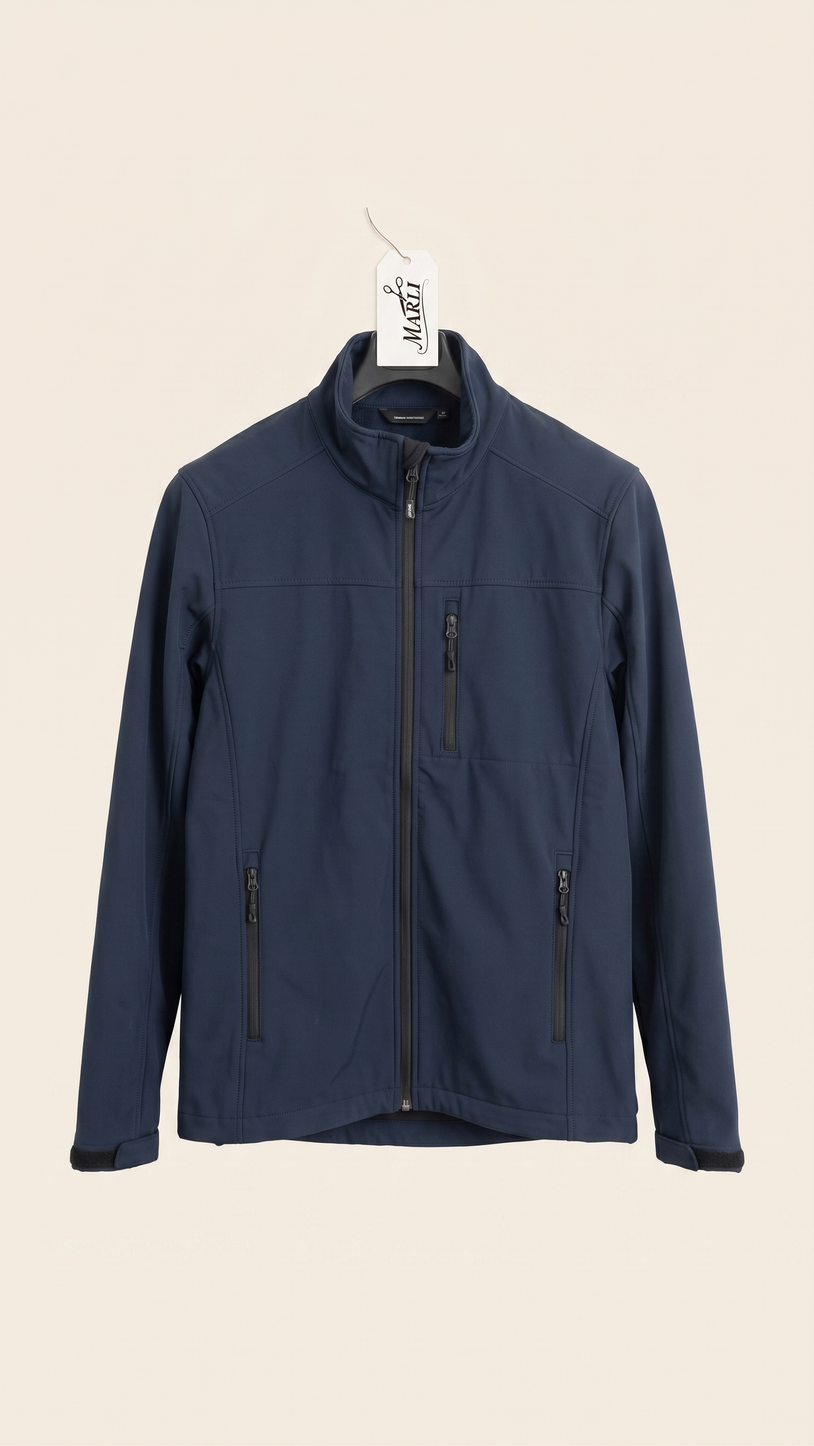
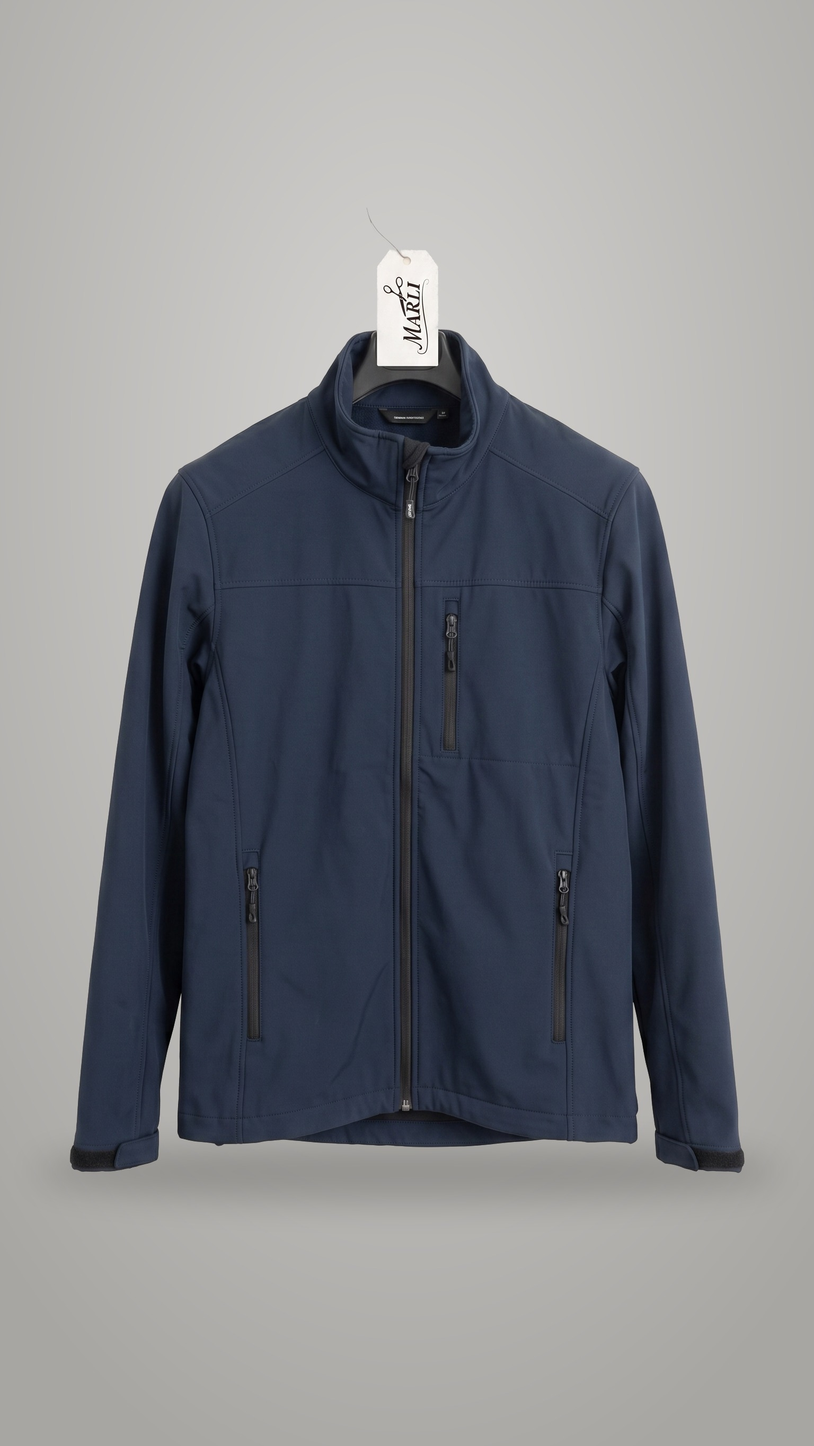
Unify product photo backgrounds and randomize testimonials
Regrades all Arbeiten and Second-Hand product photos onto the same
light-grey studio backdrop as the reference skirt photo (AI background
removal + matching gradient + soft contact shadow), replacing each
photo's inconsistent original background.

Expands the testimonials pool to 10 entries and shows 3 random ones
per page load instead of a fixed set, with a no-JS fallback that shows
all 10.

Claude-Session: https://claude.ai/code/session_01BZTQN8uqo2pvADasvdC23w

diff --git a/site/src/data/stimmen.ts b/site/src/data/stimmen.ts
@@ -1,9 +1,12 @@
 /**
- * Kundenstimmen — Sektion "Kundenstimmen".
+ * Kundenstimmen — Pool von zehn Zitaten, aus dem die Sektion pro Seitenaufruf
+ * zufällig drei auswählt (siehe Testimonials.astro).
  * Erste Stimme aus der Figma-Design-System-Dokumentation übernommen,
  * die übrigen im gleichen Ton ergänzt (echte Zitate stehen noch aus).
  * Fotos sind Platzhalter (freie Placeholder-Portraits, keine echten
- * Kundinnen) — bei echten Kundenstimmen durch reale Fotos ersetzen.
+ * Kundinnen) — nur drei Fotos vorhanden, werden über die zehn Einträge
+ * hinweg wiederverwendet. Bei echten Kundenstimmen durch reale Fotos
+ * ersetzen.
  */
 import type { ImageMetadata } from 'astro';
 import andreaFoto from '../bilder/testimonial-andrea.jpg';
@@ -38,5 +41,54 @@ export const kundenstimmen: Kundenstimme[] = [
     name: 'Julia M.',
     ort: 'Kundin aus Kolbermoor',
     foto: juliaFoto,
+  },
+  {
+    zitat:
+      'Der Reißverschluss meiner Lieblingsjacke war kaputt – jetzt hält er wieder, und man merkt gar nicht, dass er ausgetauscht wurde.',
+    name: 'Petra S.',
+    ort: 'Kundin aus Bad Aibling',
+    foto: andreaFoto,
+  },
+  {
+    zitat:
+      'Für mein Vorstellungsgespräch brauchte ich schnell einen passenden Blazer – im Second-Hand-Regal fand ich genau das Richtige, direkt angepasst.',
+    name: 'Nina F.',
+    ort: 'Kundin aus Raubling',
+    foto: sabineFoto,
+  },
+  {
+    zitat:
+      'Mein Kleid für die Hochzeit meiner Schwester wurde perfekt gekürzt, termingerecht und mit viel Liebe zum Detail.',
+    name: 'Melanie T.',
+    ort: 'Kundin aus Stephanskirchen',
+    foto: juliaFoto,
+  },
+  {
+    zitat:
+      'Im Second-Hand-Bereich habe ich einen Ledermantel in Top-Zustand entdeckt – ein echter Glücksfund.',
+    name: 'Claudia W.',
+    ort: 'Kundin aus Bruckmühl',
+    foto: andreaFoto,
+  },
+  {
+    zitat:
+      'Der Anzug meines Mannes musste kurzfristig enger gemacht werden – kein Problem, alles hat perfekt gepasst.',
+    name: 'Birgit H.',
+    ort: 'Kundin aus Kolbermoor',
+    foto: sabineFoto,
+  },
+  {
+    zitat:
+      'Nach dem Abnehmen musste mein Lieblingsrock enger gemacht werden – jetzt sitzt er wieder wie am ersten Tag.',
+    name: 'Simone L.',
+    ort: 'Kundin aus Rosenheim',
+    foto: juliaFoto,
+  },
+  {
+    zitat:
+      'Auch für die Kinder gibt es im Second-Hand-Regal schöne Stücke – nachhaltig und günstig zugleich.',
+    name: 'Katrin B.',
+    ort: 'Kundin aus Bad Aibling',
+    foto: andreaFoto,
   },
 ];
